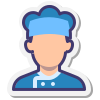
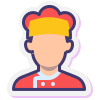
theme color changed

diff --git a/SpicyX/index.html b/SpicyX/index.html
@@ -20,7 +20,8 @@
     <!-- Fancybox slider -->
     <link rel="stylesheet" href="assets/css/jquery.fancybox.css" type="text/css" media="screen" /> 
     <!-- Theme color -->
-    <link id="switcher" href="assets/css/theme-color/default-theme.css" rel="stylesheet">     
+    <link id="switcher" href="assets/css/theme-color/blue-theme.css" rel="stylesheet">  
+
 
     <!-- Main style sheet -->
     <link href="style.css" rel="stylesheet">    
@@ -158,22 +159,22 @@
   <div class="container">
     <div class="service-item">
         <img src="icons8-chef-100.png" alt="Master Chefs">
-        <h5>Master Chefs</h5>
+        <h5><b>Master Chefs</b></h5>
         <p>Master chefs of restaurants are highly skilled culinary experts renowned for their creativity, precision, and ability to elevate dining experiences through exceptional cuisine.</p>
     </div>
     <div class="service-item">
-        <img src="icons8-quality-48.png" alt="Quality Food">
-        <h5>Quality Food</h5>
+        <img src="icons8-quality-96.png" alt="Quality Food">
+        <h5><b>Quality Food</b></h5>
         <p>Quality food in restaurants not only satisfies hunger but also delights the palate, showcasing fresh ingredients, expert preparation, and a passion for culinary excellence.</p>
     </div>
     <div class="service-item">
         <img src="icons8-online-order-64.png" alt="Online Order">
-        <h5>Online Order</h5>
+        <h5><b>Online Order</b></h5>
         <p>Online orders have revolutionized the restaurant industry by offering customers convenient, contactless ways to enjoy their favorite meals from the comfort of their homes.</p>
     </div>
     <div class="service-item">
-        <img src="icons8-24-hour-service-on-round-the-clock-available-96.png" alt="24/7 Service">
-        <h5>24/7 Service</h5>
+        <img src="icons8-last-24-hours-100 (2).png" alt="24/7 Service">
+        <h5><b>24/7 Service</b></h5>
         <p>Our restaurant proudly offers 24/7 service, ensuring you can enjoy delicious meals any time, day or night.</p>
     </div>
 </div>

diff --git a/SpicyX/style.css b/SpicyX/style.css
@@ -35,7 +35,7 @@
 body {
   background-color: #ffffff;
   font-family: "Prata", serif;
-  color: #89161a;
+  color: #000000;
   font-size: 15px;
   overflow-x: hidden;
 }
@@ -52,10 +52,10 @@ body {
 }
 
 .service-item {
-  background-color: 	#FFDB58;
+  background-color: 	#3498db;
   border-radius: 8px;
   margin: 30px;
-  padding: 50px;
+  padding: 30px;
   text-align: center;
   width: 200px;
   box-shadow: 0 4px 8px rgba(0, 0, 0, 0.1);
@@ -80,8 +80,8 @@ body {
 }
 
 .service-item p {
-  color: #ff0e8e;
-  font-size: 0.9rem;
+  color: #000000;
+  font-size: 1.1rem;
 }
 /* MODULES - Individual site components */
 ul {
@@ -541,13 +541,13 @@ img {
 }
 #mu-counter .mu-counter-overlay .mu-counter-area .mu-counter-nav li {
   display: inline-block;
-  border-right: 1px solid #ccc;
+  border-right: 1px solid #6e6b6b;
 }
 #mu-counter .mu-counter-overlay .mu-counter-area .mu-counter-nav li:last-child {
   border-right: none;
 }
 #mu-counter .mu-counter-overlay .mu-counter-area .mu-counter-nav li .mu-single-counter {
-  color: #fff;
+  color:#3498db ;
   display: inline;
   float: left;
   text-align: center;
@@ -691,7 +691,7 @@ img {
 RESERVATION SECTION
 ====================*/
 #mu-reservation {
-  background-color: 	#FFDB58;
+  background-color: 	#3498db;
   display: inline;
   float: left;
   padding: 100px 0;
@@ -703,7 +703,7 @@ RESERVATION SECTION
   width: 100%;
 }
 #mu-reservation .mu-reservation-area .mu-title h2 {
-  color: #800000;
+  color: #000000;
 }
 #mu-reservation .mu-reservation-area .mu-reservation-content {
   display: inline;
@@ -713,7 +713,7 @@ RESERVATION SECTION
   width: 100%;
 }
 #mu-reservation .mu-reservation-area .mu-reservation-content h3 {
-  color: #800000;
+  color: #000000;
   display: inline-block;
   padding-bottom: 10px;
   font-weight: bold;
